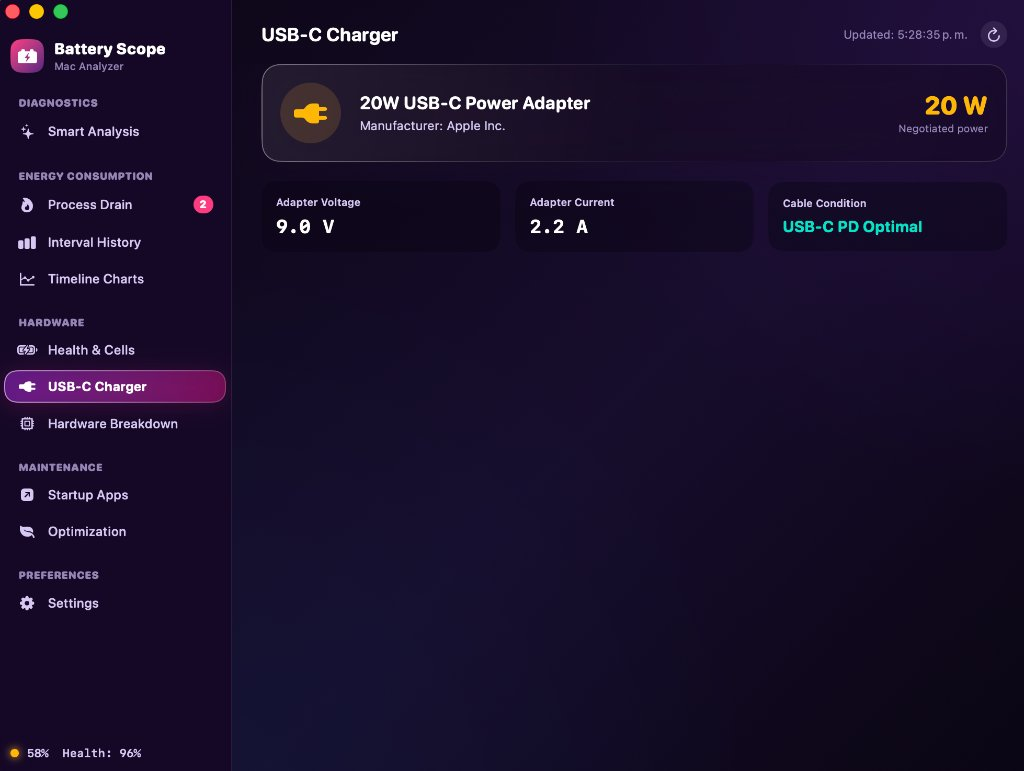
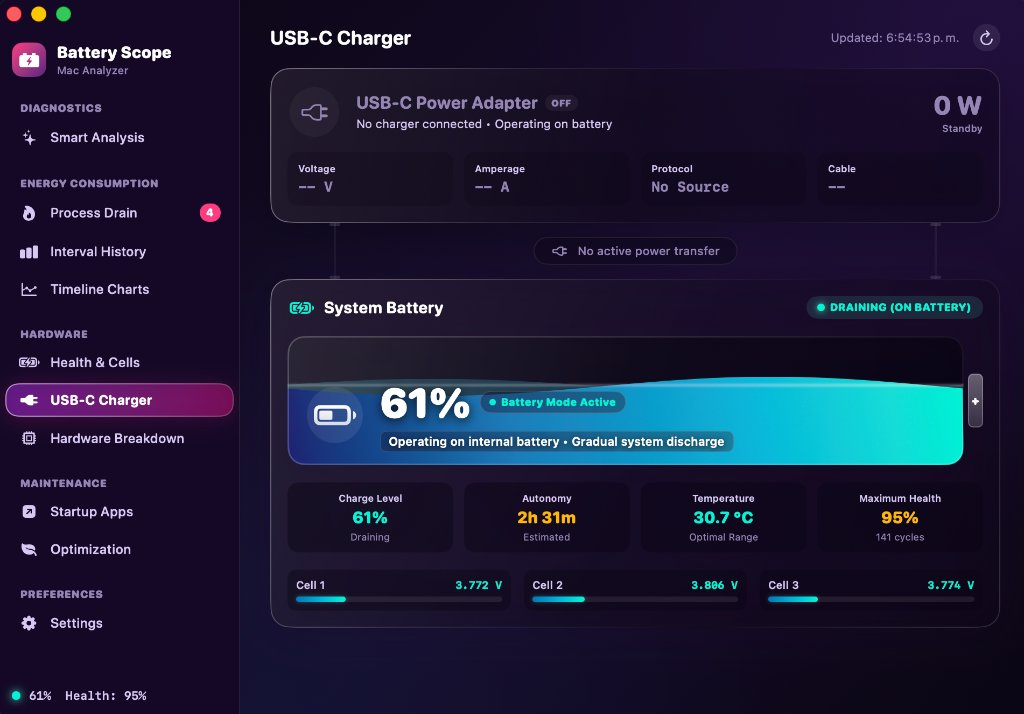
Update USB-C charger screenshot and descriptions in README and README.es

diff --git a/README.es.md b/README.es.md
@@ -88,10 +88,10 @@ A diferencia de los monitores de tareas tradicionales que solo muestran números
 
 ### 🔌 Inspección de Hardware y Entrega de Energía
 
-| ⚡ Cargador USB-C y Power Delivery | 🖥 Desglose de Subsistemas de Hardware |
+| ⚡ Cargador USB-C y Batería Líquida | 🖥 Desglose de Subsistemas de Hardware |
 | :---: | :---: |
-| <img src="docs/screenshots/06_usbc_charger.jpg" alt="Cargador USB-C" width="100%" /> | <img src="docs/screenshots/07_hardware_breakdown.jpg" alt="Desglose de Hardware" width="100%" /> |
-| *Potencia PD negociada, voltaje, amperaje y estado del cable* | *Consumo en tiempo real por componente: SoC M1/M2/M3, Pantalla, RAM y SSD* |
+| <img src="docs/screenshots/06_usbc_charger.jpg" alt="Cargador USB-C y Batería Líquida" width="100%" /> | <img src="docs/screenshots/07_hardware_breakdown.jpg" alt="Desglose de Hardware" width="100%" /> |
+| *Telemetría de carga en vivo, columnas cuánticas de energía y nivel de batería líquida* | *Consumo en tiempo real por componente: SoC M1/M2/M3, Pantalla, RAM y SSD* |
 
 ---
 
@@ -133,8 +133,9 @@ Battery Scope se integra discretamente en la barra de menús de macOS. Un solo c
   - Monitoreo en tiempo real de potencia en vatios (W), voltaje (V) y amperaje (A).
   - Balance de voltaje individual de las 3 celdas de la batería.
   - Conteo de ciclos, capacidad nominal retenida y condición de salud.
-- **⚡ Inspector de Cargador USB-C y Power Delivery**:
-  - Detección de perfil PD negociado, potencia del cargador, voltaje y estado del cable.
+- **⚡ Inspector de Cargador USB-C y Batería Líquida Dinámica**:
+  - Detección de perfil PD negociado, potencia del cargador, voltaje, amperaje y estado del cable.
+  - Columnas de transferencia cuántica con flujo asíncrono de electrones y tanque de agua líquida ondulante con balance de celdas 3S.
 - **📊 Historial de Consumo por Intervalos**:
   - Gráfico de barras por bloques de 30 minutos o 1 hora.
   - Detección de consumos en suspensión (*DarkWake*) con la tapa cerrada.

diff --git a/README.md b/README.md
@@ -90,8 +90,8 @@ Unlike standard task managers that just show cryptic numbers and PIDs, Battery S
 
 | ⚡ USB-C Charger & Power Delivery | 🖥 Hardware Subsystems Breakdown |
 | :---: | :---: |
-| <img src="docs/screenshots/06_usbc_charger.jpg" alt="USB-C Charger" width="100%" /> | <img src="docs/screenshots/07_hardware_breakdown.jpg" alt="Hardware Breakdown" width="100%" /> |
-| *Negotiated PD wattage, adapter voltage, amperage & cable health* | *Real-time energy draw per component: SoC, Retina Display, RAM, SSD* |
+| <img src="docs/screenshots/06_usbc_charger.jpg" alt="USB-C Charger & Fluid Battery" width="100%" /> | <img src="docs/screenshots/07_hardware_breakdown.jpg" alt="Hardware Breakdown" width="100%" /> |
+| *Live charger telemetry, dual-column quantum energy conduit & dynamic fluid battery level* | *Real-time energy draw per component: SoC, Retina Display, RAM, SSD* |
 
 ---
 
@@ -133,8 +133,9 @@ Battery Scope sits discreetly in your native macOS menu bar. A single click open
   - Live wattage (W), voltage (V), and amperage (A) monitoring.
   - Individual 3-cell voltage balance visualizer.
   - Cycle count, retained design capacity, and health condition.
-- **⚡ USB-C Charger & Power Delivery Inspector**:
-  - Live negotiated wattage, voltage, amperage, and cable condition.
+- **⚡ USB-C Charger & Dynamic Fluid Battery Inspector**:
+  - Live negotiated wattage, adapter voltage, amperage, and cable condition.
+  - Dual-column quantum electron conduit animation and interactive wave fluid tank with 3S cell balancing.
 - **📊 Temporal Consumption & Interval History**:
   - Interactive block bar charts for hourly / 30-min drain history.
   - DarkWake / Lid Closed background power tracking.
